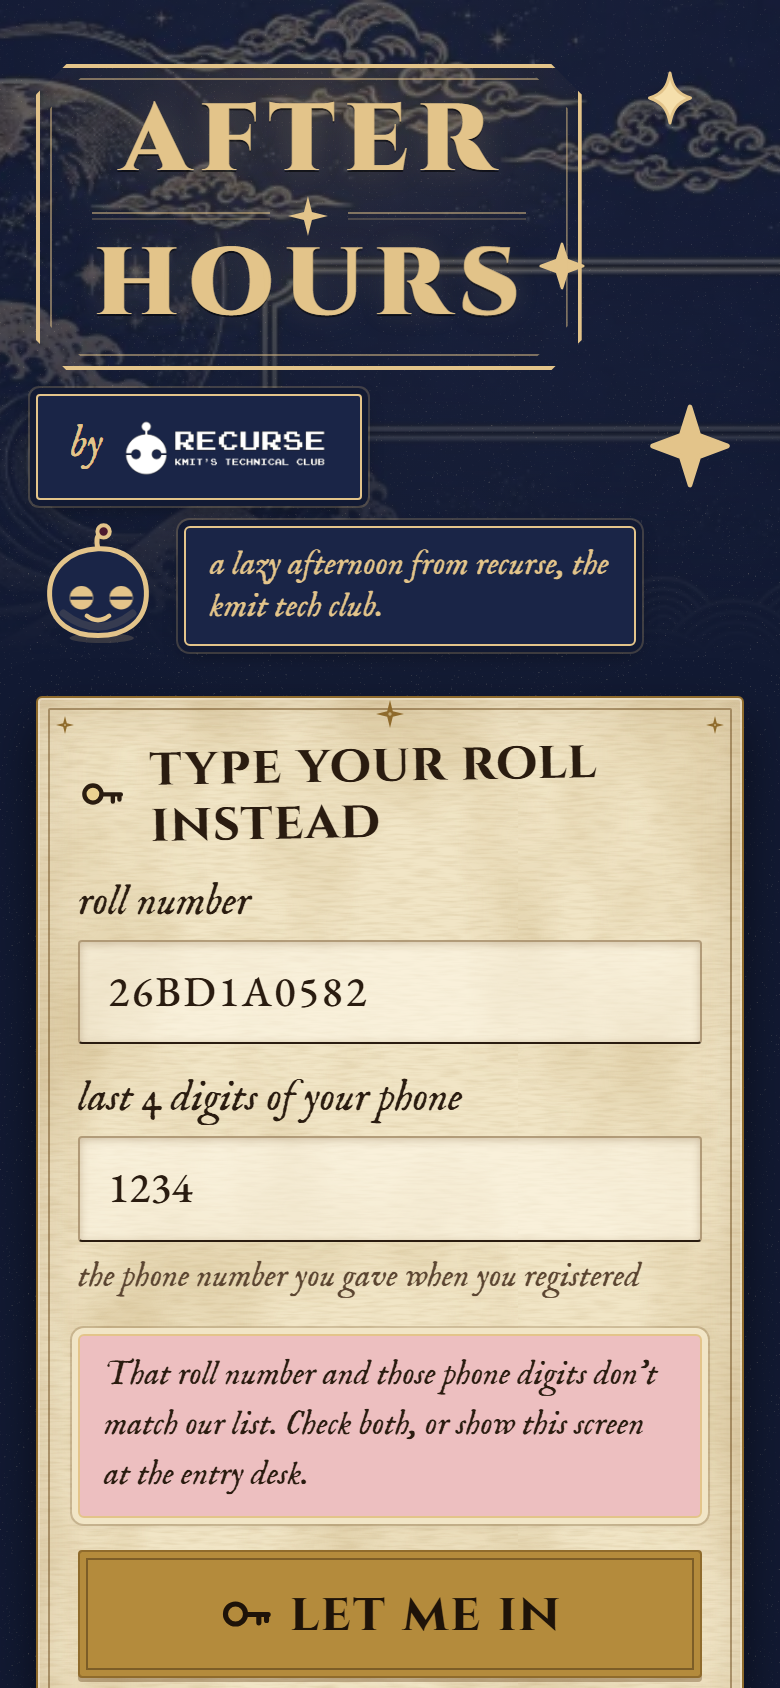
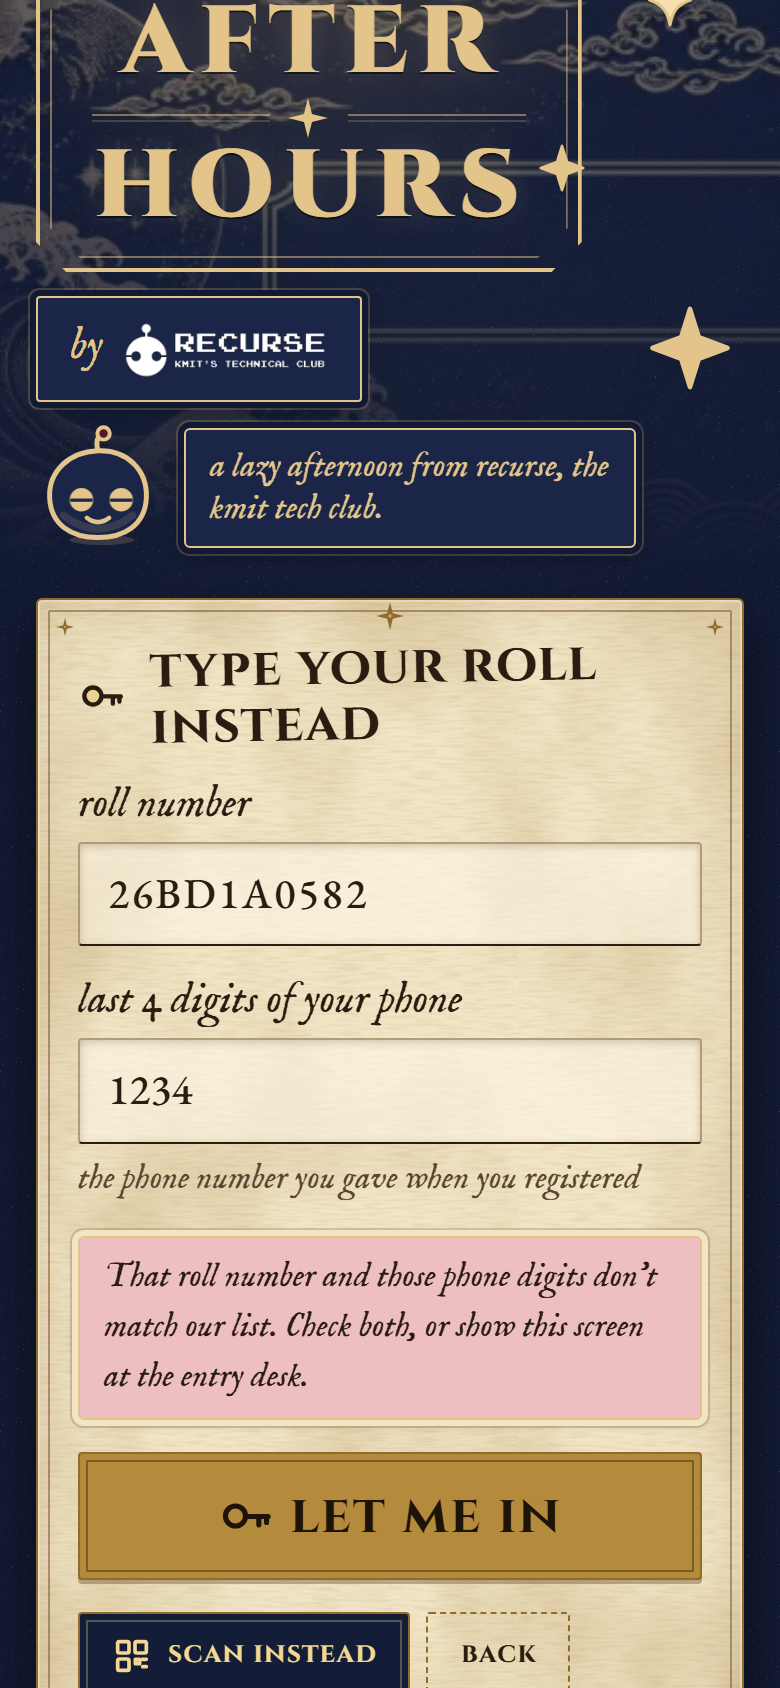
style(idlogin): scan action struck in gold to match the re-theme; scanner frame on the night ground; picker note readable on parchment; screenshots

diff --git a/web/src/features/common/idscanner.module.css b/web/src/features/common/idscanner.module.css
@@ -5,8 +5,8 @@
   width: 100%;
   max-width: 420px;
   justify-self: center;
-  aspect-ratio: 3 / 4;
-  background: var(--ink);
+  aspect-ratio: 1;
+  background: var(--night, var(--ink));
   border: var(--outline);
   border-radius: var(--cut-1);
   box-shadow: var(--shadow);
@@ -15,19 +15,19 @@
 .video { width: 100%; height: 100%; object-fit: cover; display: block; }
 .frame {
   position: absolute;
-  left: 14%;
-  right: 14%;
-  top: 20%;
+  left: 16%;
+  right: 16%;
+  top: 12%;
   aspect-ratio: 1;
   border-radius: var(--cut-3);
-  box-shadow: 0 0 0 999px color-mix(in srgb, var(--ink) 45%, transparent);
+  box-shadow: 0 0 0 999px color-mix(in srgb, var(--night, var(--ink)) 55%, transparent);
 }
-.cornerA, .cornerB, .cornerC, .cornerD { position: absolute; width: 34px; height: 34px; border: var(--line-fat) solid var(--sun); }
+.cornerA, .cornerB, .cornerC, .cornerD { position: absolute; width: 34px; height: 34px; border: var(--line-fat) solid var(--gold-bright, var(--sun)); }
 .cornerA { top: -2px; left: -2px; border-right: 0; border-bottom: 0; border-top-left-radius: 10px; }
 .cornerB { top: -2px; right: -2px; border-left: 0; border-bottom: 0; border-top-right-radius: 10px; }
 .cornerC { bottom: -2px; left: -2px; border-right: 0; border-top: 0; border-bottom-left-radius: 10px; }
 .cornerD { bottom: -2px; right: -2px; border-left: 0; border-top: 0; border-bottom-right-radius: 10px; }
-.sweep { position: absolute; left: 6%; right: 6%; height: var(--line-fat); background: var(--lime); border-radius: 4px; animation: sweep 1.8s var(--ease-out) infinite alternate; }
+.sweep { position: absolute; left: 6%; right: 6%; height: var(--line-fat); background: var(--gold-bright, var(--lime)); border-radius: 4px; opacity: 0.8; animation: sweep 1.8s var(--ease-out) infinite alternate; }
 @keyframes sweep { from { top: 8%; } to { top: 90%; } }
 @media (prefers-reduced-motion: reduce) { .sweep { animation: none; top: 50%; } }
 .hint {

diff --git a/web/src/surfaces/attendee/idsignin.module.css b/web/src/surfaces/attendee/idsignin.module.css
@@ -9,18 +9,19 @@
   min-height: 132px;
   padding: var(--s-5) var(--s-4);
   text-align: left;
-  color: var(--on-sun);
-  background: var(--sun);
+  /* the primary action, struck in gold like the kit's primary buttons, with the double rule */
+  color: var(--on-gold);
+  background: var(--gold);
   border: var(--outline);
   border-radius: var(--cut-1);
-  box-shadow: var(--shadow-lg);
+  box-shadow: inset 0 0 0 4px var(--gold), inset 0 0 0 5px var(--on-gold), var(--shadow-lg);
   transform: rotate(-1deg);
   cursor: pointer;
   transition: transform var(--dur-fast) var(--ease-pop), box-shadow var(--dur-fast) var(--ease-out);
 }
 .bigScan:hover { transform: rotate(-1deg) translateY(-2px); }
-.bigScan:active { transform: rotate(-1deg) translate(3px, 4px); box-shadow: var(--shadow-pressed); }
-.bigScan:focus-visible { outline: var(--line-fat) solid var(--grape); outline-offset: 4px; }
+.bigScan:active { transform: rotate(-1deg) translate(3px, 4px); box-shadow: inset 0 0 0 4px var(--gold), inset 0 0 0 5px var(--on-gold), var(--shadow-pressed); }
+.bigScan:focus-visible { outline: var(--line-fat) solid var(--gold-bright); outline-offset: 4px; }
 .bigScanIcon {
   display: grid;
   place-items: center;
@@ -106,4 +107,4 @@
 .pickCard:disabled { cursor: not-allowed; opacity: 0.6; box-shadow: none; }
 .pickName { font-family: var(--font-display); font-size: var(--step-1); line-height: 1.1; }
 .pickMeta { font-family: var(--font-hand); font-weight: 700; color: var(--ink-soft); }
-.pickBound { font-family: var(--font-hand); font-weight: 700; font-size: var(--step--1); color: var(--bad-text, var(--ink)); }
+.pickBound { font-family: var(--font-hand); font-weight: 700; font-size: var(--step--1); color: var(--wax, var(--ink)); }

diff --git a/web/src/surfaces/attendee/SignIn.tsx b/web/src/surfaces/attendee/SignIn.tsx
@@ -1,6 +1,7 @@
 /*
-  Sign-in. Kit ID is prefilled from ?kit=AH-042 (the QR on the card).
-  The password is never in the URL.
+  Sign-in. First and biggest: scan your student ID (IdSignIn). Then the entry
+  kit, for walk-ins and spares: kit ID prefilled from ?kit=AH-042 (the QR on
+  the card). The password is never in the URL.
 */
 import { normaliseKitId } from '@afterhours/shared';
 import { useAnimate, useReducedMotion } from 'motion/react';
@@ -28,6 +29,7 @@ export function SignIn() {
   const reduce = useReducedMotion();
   const pwRef = useRef<HTMLInputElement>(null);
   const kitRef = useRef<HTMLInputElement>(null);
+  const idRef = useRef<HTMLDivElement>(null);
 
   useEffect(() => {
     // Came from the QR: the kit ID is done, so the cursor goes to the password.
@@ -102,7 +104,15 @@ export function SignIn() {
         </div>
       </header>
 
-      <IdSignIn onStepChange={setIdBusy} />
+      <div ref={idRef} className={s.idWrap}>
+        <IdSignIn
+          onStepChange={(busy) => {
+            setIdBusy(busy);
+            // the camera and every next step sit under the big title: bring them into view
+            if (busy) requestAnimationFrame(() => idRef.current?.scrollIntoView({ block: 'start', behavior: reduce ? 'auto' : 'smooth' }));
+          }}
+        />
+      </div>
 
       <form ref={scope} className={s.kitWrap} onSubmit={submit} noValidate hidden={idBusy && !rawKit}>
         <Card tone="paper" tape tapeColor="pink" lift className={s.kitCard}>

diff --git a/web/src/surfaces/admin/ParticipantsPanel.tsx b/web/src/surfaces/admin/ParticipantsPanel.tsx
@@ -387,7 +387,7 @@ function Table() {
                       {r.source === 'walkin' && <span className={p.tag}>walk-in</span>}
                       {r.note && <span className={p.noteTag}>{r.note}</span>}
                     </td>
-                    <td className={s.faint}>{[r.year, r.section].filter(Boolean).join(', ')}</td>
+                    <td className={`${s.faint} ${p.nowrap}`}>{[r.year, r.section].filter(Boolean).join(', ')}</td>
                     <td className={s.faint}>{maskPhone(r.phone)}</td>
                     <td>
                       <StatusBadge r={r} />

diff --git a/e2e/idlogin.spec.ts b/e2e/idlogin.spec.ts
@@ -101,7 +101,7 @@ test.describe.serial('student-ID login', () => {
     await expect(report).toContainText('kept "Kavya Iyer", also given by "K Iyer"');
     await expect(report).toContainText('probable test entry');
     await expect(page.getByTestId('participant-26BD1A0581')).toContainText('roll also given by');
-    await settle(page);
+    await settle(page, 5000); // let the confetti and the toast clear
     await page.screenshot({ path: `${SHOTS}/idlogin-console-participants.png`, fullPage: true });
     await ctx.close();
   });

diff --git a/web/src/surfaces/admin/participants.module.css b/web/src/surfaces/admin/participants.module.css
@@ -41,3 +41,4 @@
 .vNo { background: var(--pink); }
 .pick { outline: var(--line-fat) solid var(--grape); outline-offset: 3px; }
 @media (max-width: 900px) { .desk { grid-template-columns: 1fr; } }
+.nowrap { white-space: nowrap; }

diff --git a/web/src/surfaces/attendee/attendee.module.css b/web/src/surfaces/attendee/attendee.module.css
@@ -262,3 +262,4 @@
     background-color: var(--paper);
   }
 }
+.idWrap { position: relative; z-index: 1; scroll-margin-top: var(--s-4); }
